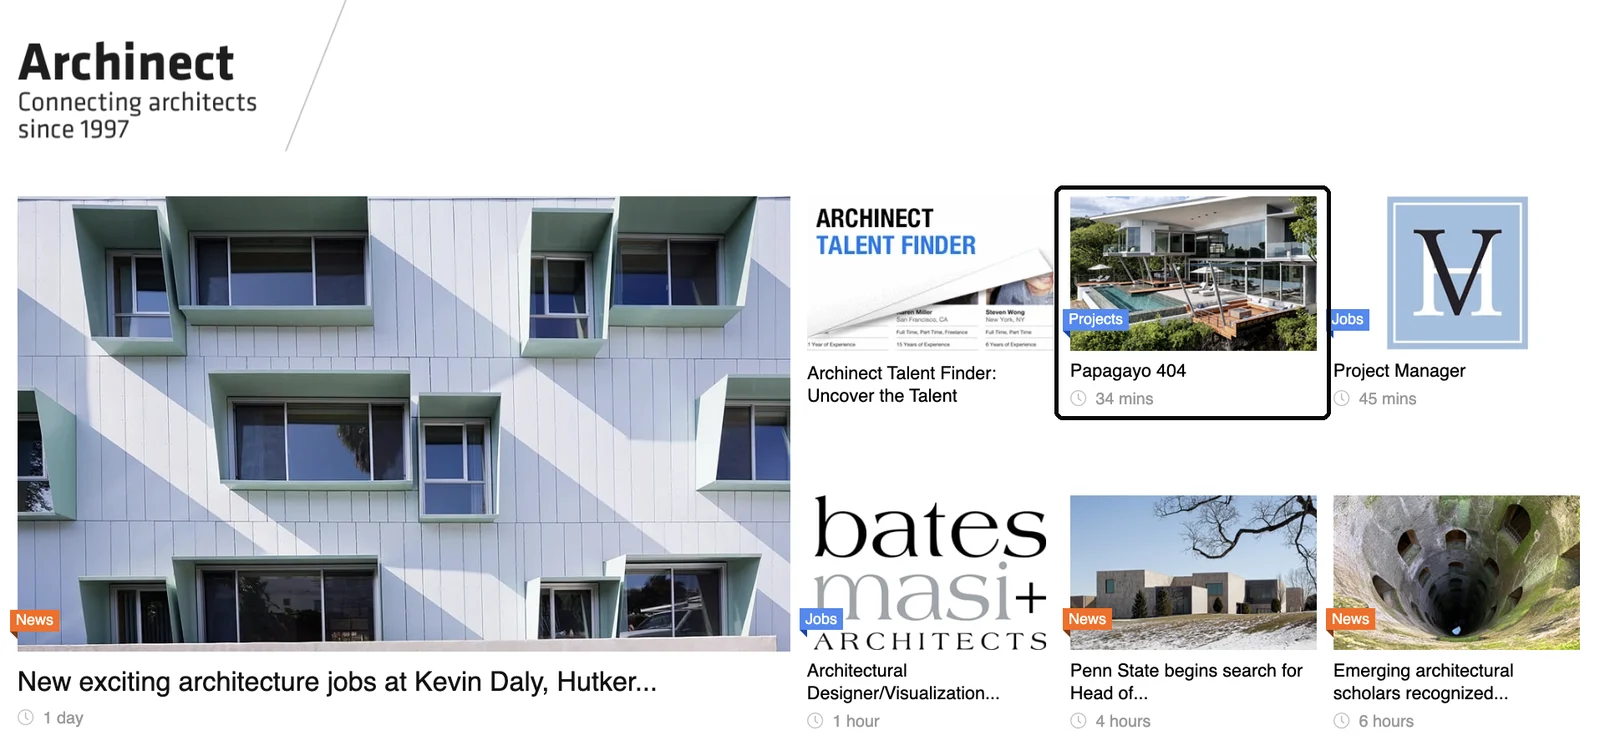
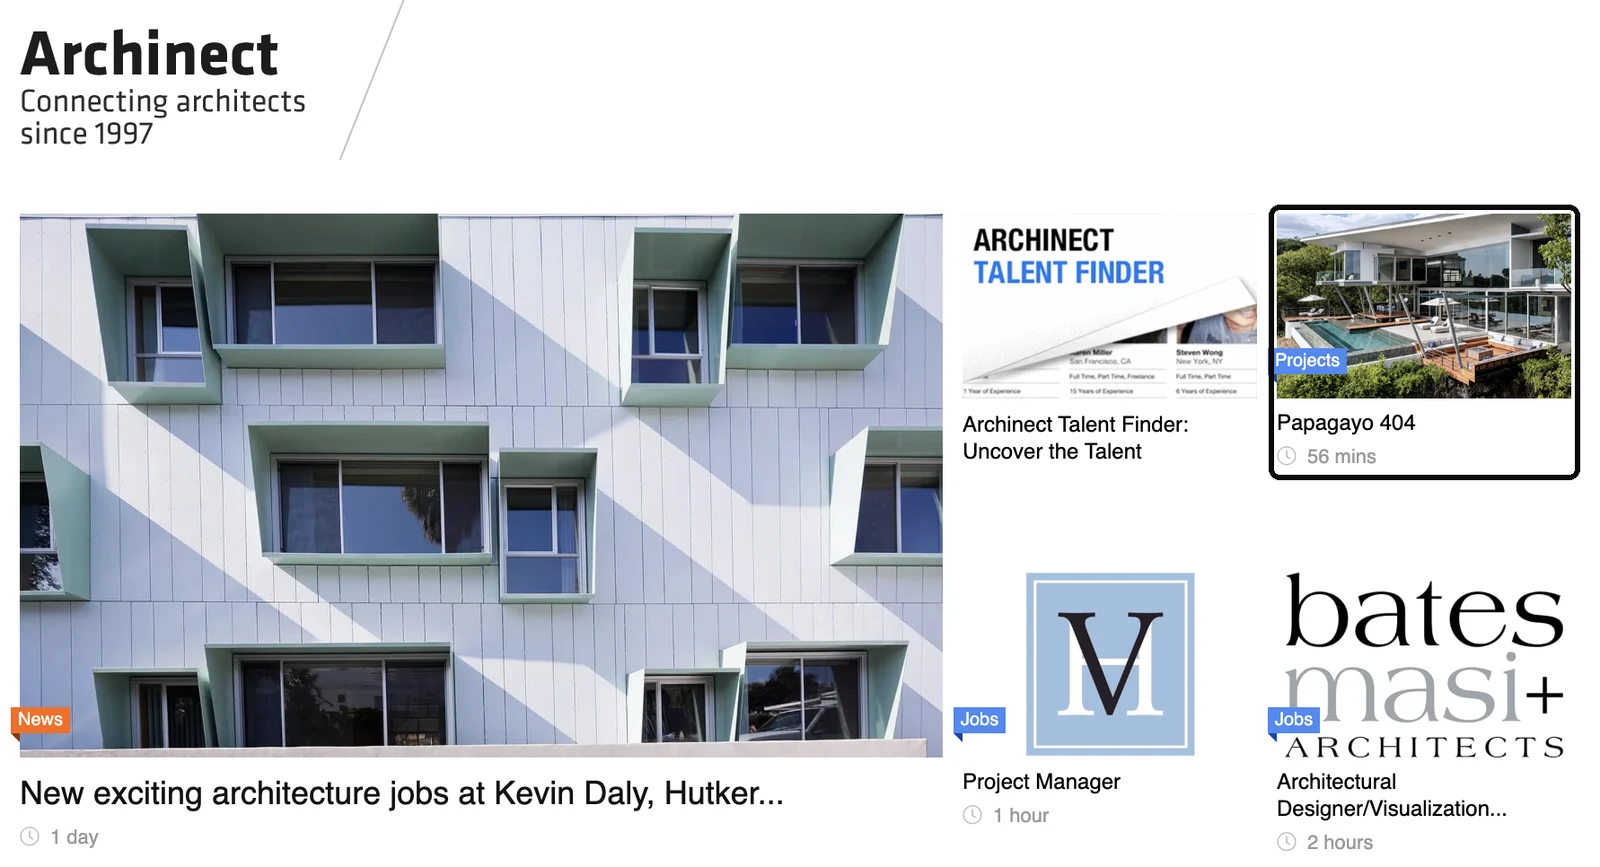
Press: the Archinect home page proof from the closer screenshot, Papagayo 404 top right

diff --git a/site/es/prensa/index.html b/site/es/prensa/index.html
@@ -63,7 +63,7 @@
       </a>
       <p class="label pp-feat__project"><a class="ulink" href="../../es/proyectos/papagayo-404/">El proyecto: Papagayo 404 →</a></p>
       <figure class="pp-proof">
-        <img src="../../assets/img/press/archinect-home-2026-10-14-1600.webp?v=7af1efca" srcset="../../assets/img/press/archinect-home-2026-10-14-800.webp?v=7af1efca 800w, ../../assets/img/press/archinect-home-2026-10-14-1600.webp?v=7af1efca 1600w" sizes="(min-width: 992px) 64vw, 92vw" width="1600" height="751" loading="lazy" decoding="async" alt="Captura de la portada de Archinect con el recuadro del proyecto Papagayo 404 marcado">
+        <img src="../../assets/img/press/archinect-home-2026-10-14-1600.webp?v=7e4724ed" srcset="../../assets/img/press/archinect-home-2026-10-14-800.webp?v=7e4724ed 800w, ../../assets/img/press/archinect-home-2026-10-14-1600.webp?v=7e4724ed 1600w" sizes="(min-width: 992px) 64vw, 92vw" width="1600" height="867" loading="lazy" decoding="async" alt="Captura de la portada de Archinect con el recuadro del proyecto Papagayo 404 marcado">
         <figcaption class="label pp-proof__cap">La portada de Archinect el 14 de octubre de 2026, con Papagayo 404 entre sus proyectos. Captura de pantalla.</figcaption>
       </figure>
     </article>

diff --git a/site/press/index.html b/site/press/index.html
@@ -63,7 +63,7 @@
       </a>
       <p class="label pp-feat__project"><a class="ulink" href="../projects/papagayo-404/">The project: Papagayo 404 →</a></p>
       <figure class="pp-proof">
-        <img src="../assets/img/press/archinect-home-2026-10-14-1600.webp?v=7af1efca" srcset="../assets/img/press/archinect-home-2026-10-14-800.webp?v=7af1efca 800w, ../assets/img/press/archinect-home-2026-10-14-1600.webp?v=7af1efca 1600w" sizes="(min-width: 992px) 64vw, 92vw" width="1600" height="751" loading="lazy" decoding="async" alt="Screenshot of Archinect's home page with the Papagayo 404 project tile outlined">
+        <img src="../assets/img/press/archinect-home-2026-10-14-1600.webp?v=7e4724ed" srcset="../assets/img/press/archinect-home-2026-10-14-800.webp?v=7e4724ed 800w, ../assets/img/press/archinect-home-2026-10-14-1600.webp?v=7e4724ed 1600w" sizes="(min-width: 992px) 64vw, 92vw" width="1600" height="867" loading="lazy" decoding="async" alt="Screenshot of Archinect's home page with the Papagayo 404 project tile outlined">
         <figcaption class="label pp-proof__cap">Archinect's home page on 14 October 2026, with Papagayo 404 among its projects. Screenshot.</figcaption>
       </figure>
     </article>
